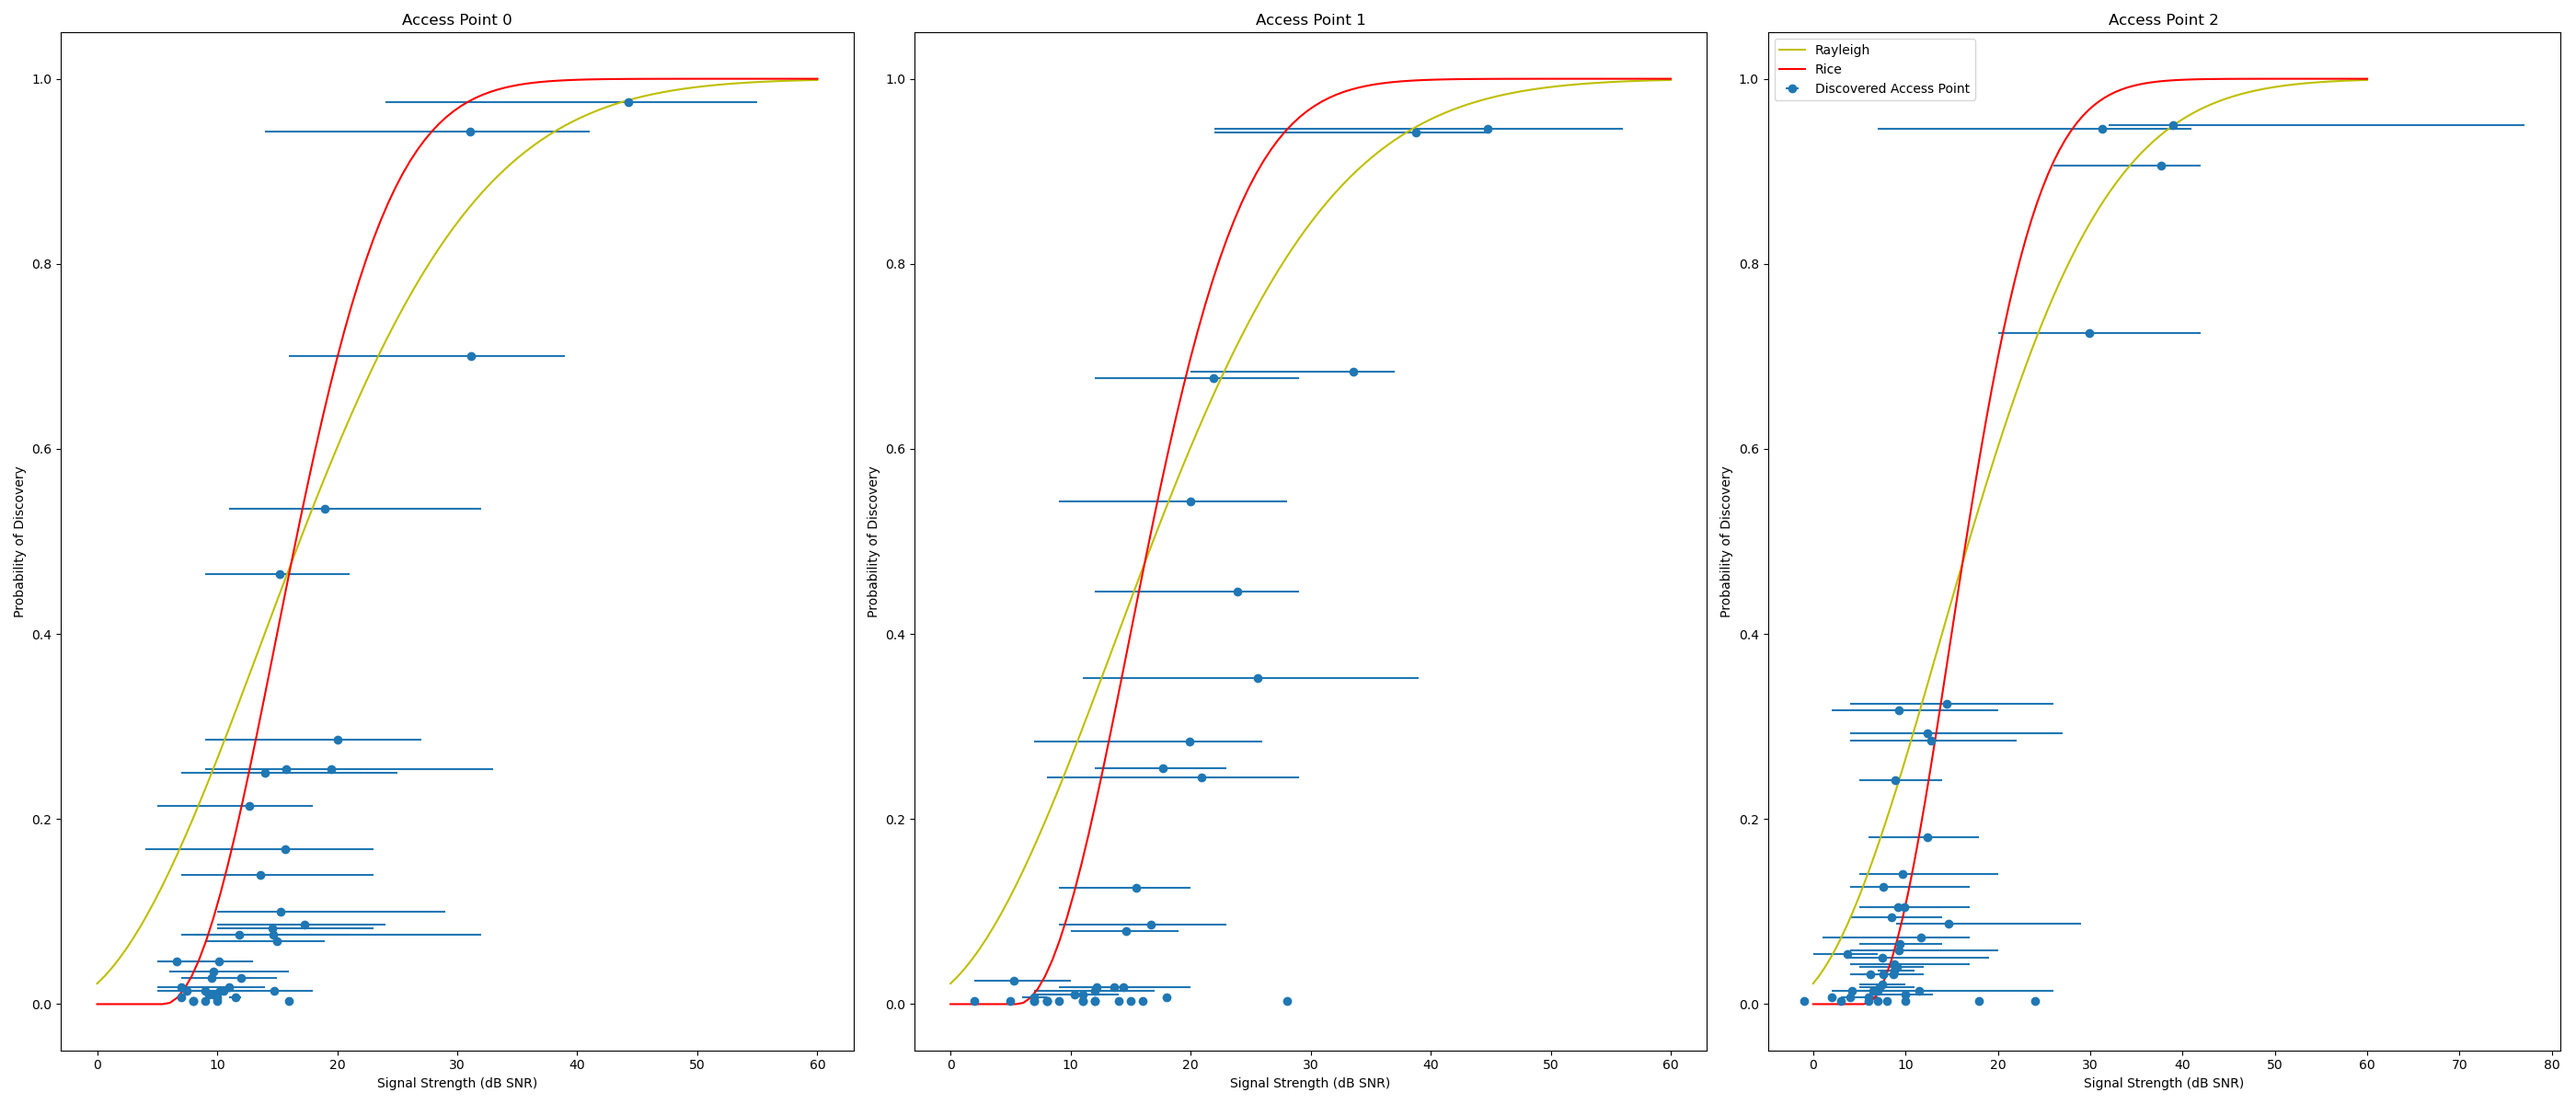
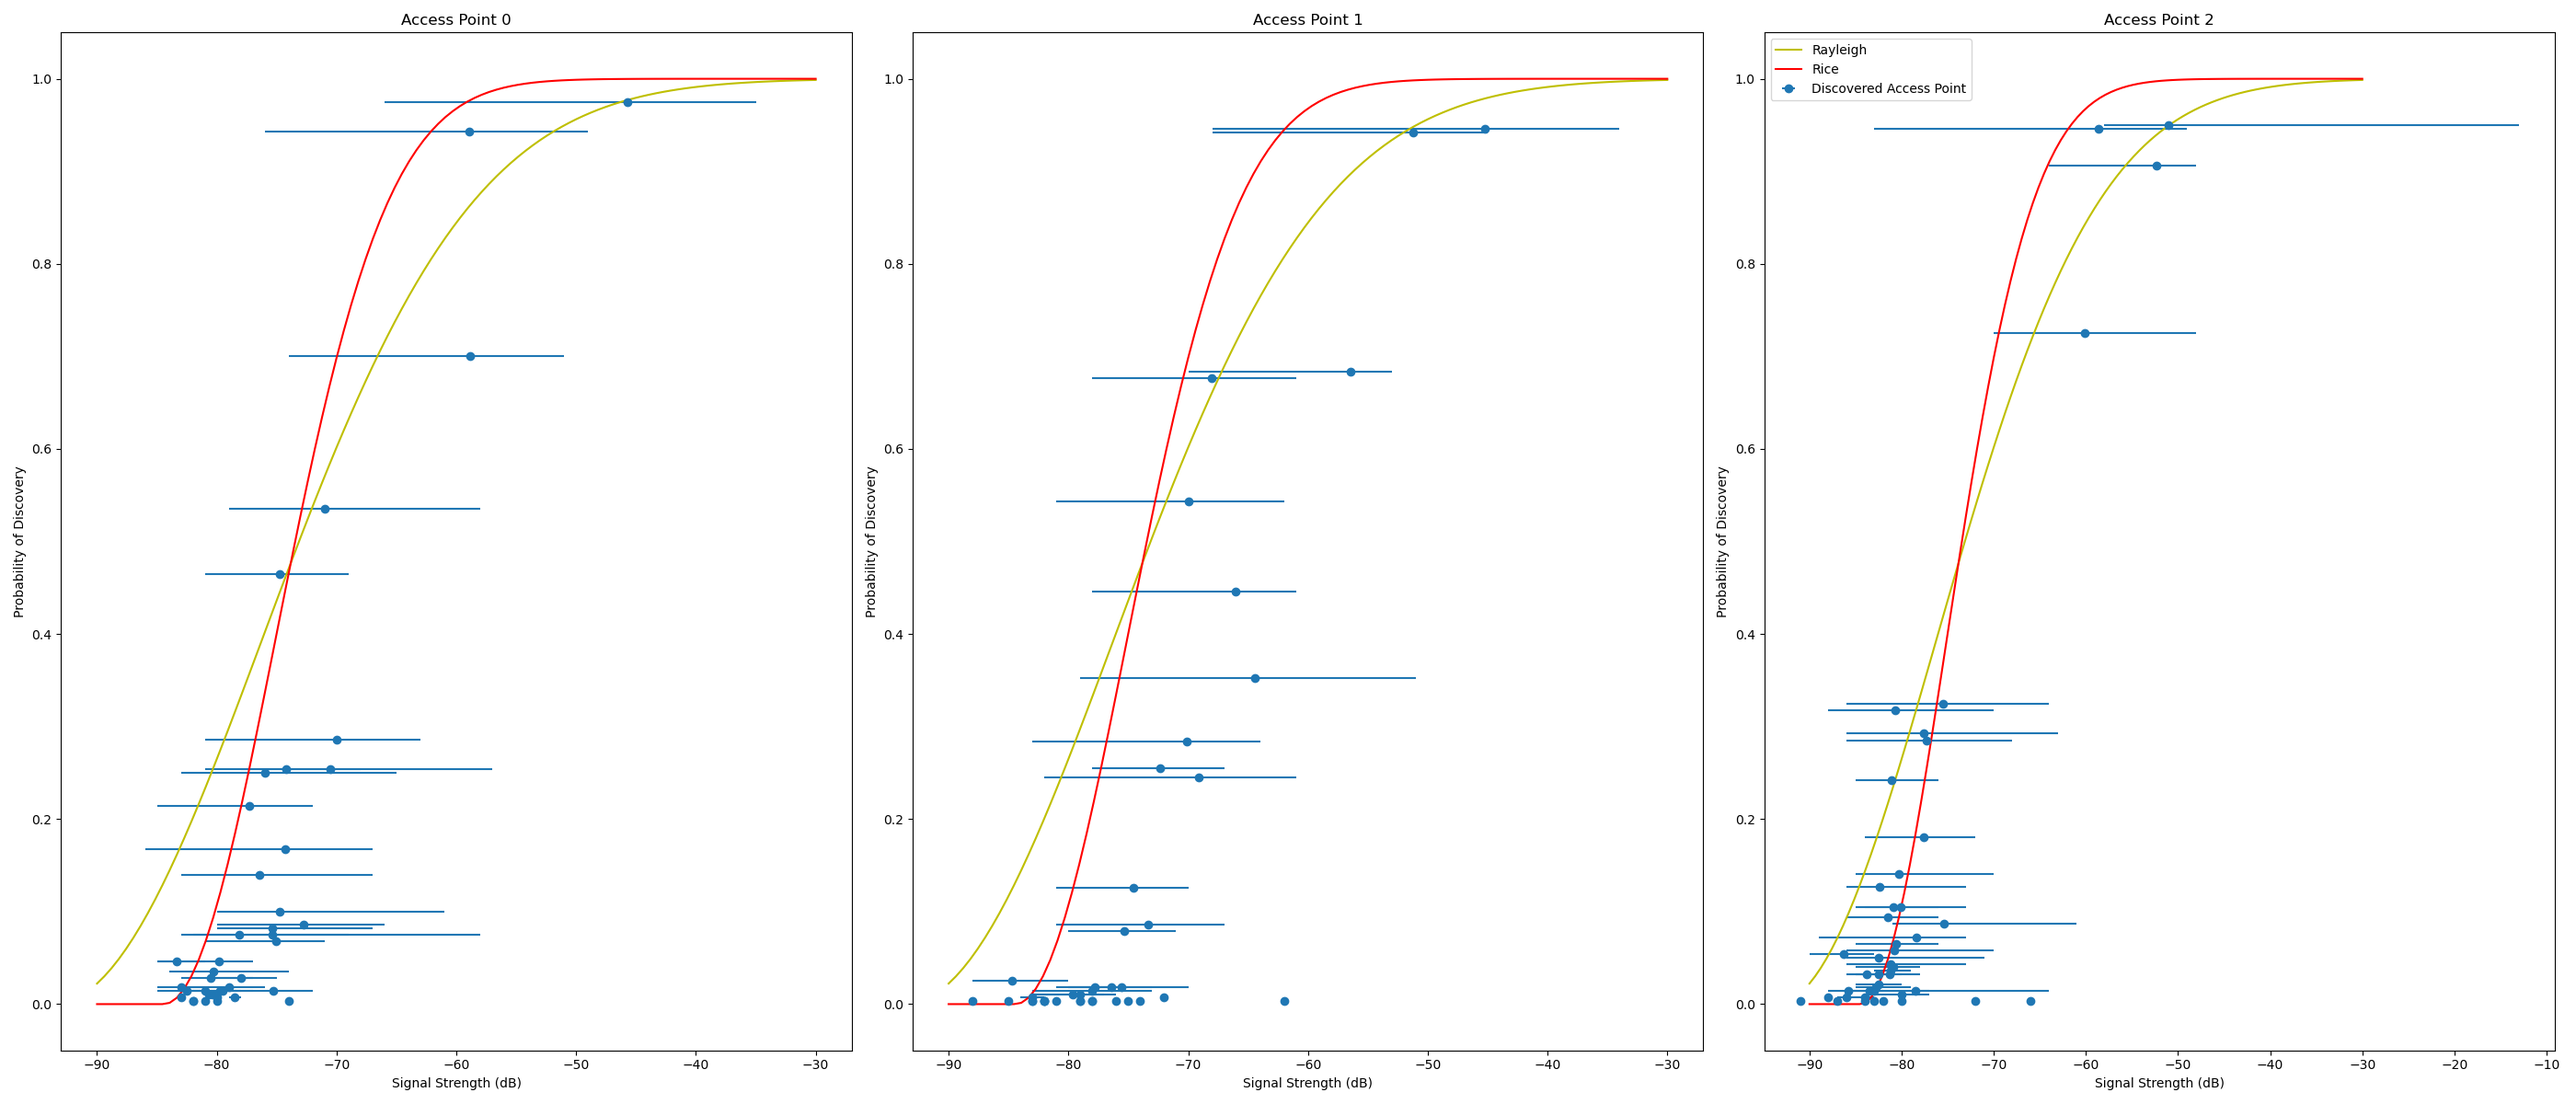
feat(graphing): Change detection_probability.py to use dBm
dB SNR wasn't relevant according to Torleiv.

diff --git a/graphing/detection_probability.py b/graphing/detection_probability.py
@@ -97,9 +97,6 @@ def detection_probability(
                 max(signal_strenghts) - mean(signal_strenghts)
             )
 
-        ap_probabilities["Signal Strength (dB)"] = \
-            dbm_to_snr(ap_probabilities["Signal Strength (dB)"])
-
         axs[index].set_title(f"Access Point {index}")
 
         axs[index].errorbar(
@@ -113,7 +110,7 @@ def detection_probability(
         x = numpy.linspace(stats.rayleigh.ppf(0.1), stats.rayleigh.ppf(0.99), 100)
 
         axs[index].plot(
-            numpy.linspace(0, 60, 100),
+            numpy.linspace(-90, -30, 100),
             stats.rayleigh.cdf(x, loc=0.3, scale=0.75),
             "y",
             label="Rayleigh",
@@ -125,19 +122,15 @@ def detection_probability(
         )
 
         axs[index].plot(
-            numpy.linspace(0, 60, 100),
+            numpy.linspace(-90, -30, 100),
             stats.rice.cdf(x, loc=0.7, b=bessel, scale=0.4),
             "r",
             label="Rice"
         )
 
-
-    # plt.suptitle(
-    #     f"Probability of discovery ({title})"
-    # )
     plt.legend()
 
     for ax in axs.flat:
-        ax.set(xlabel="Signal Strength (dB SNR)", ylabel="Probability of Discovery")
+        ax.set(xlabel="Signal Strength (dB)", ylabel="Probability of Discovery")
 
     plt.show()
